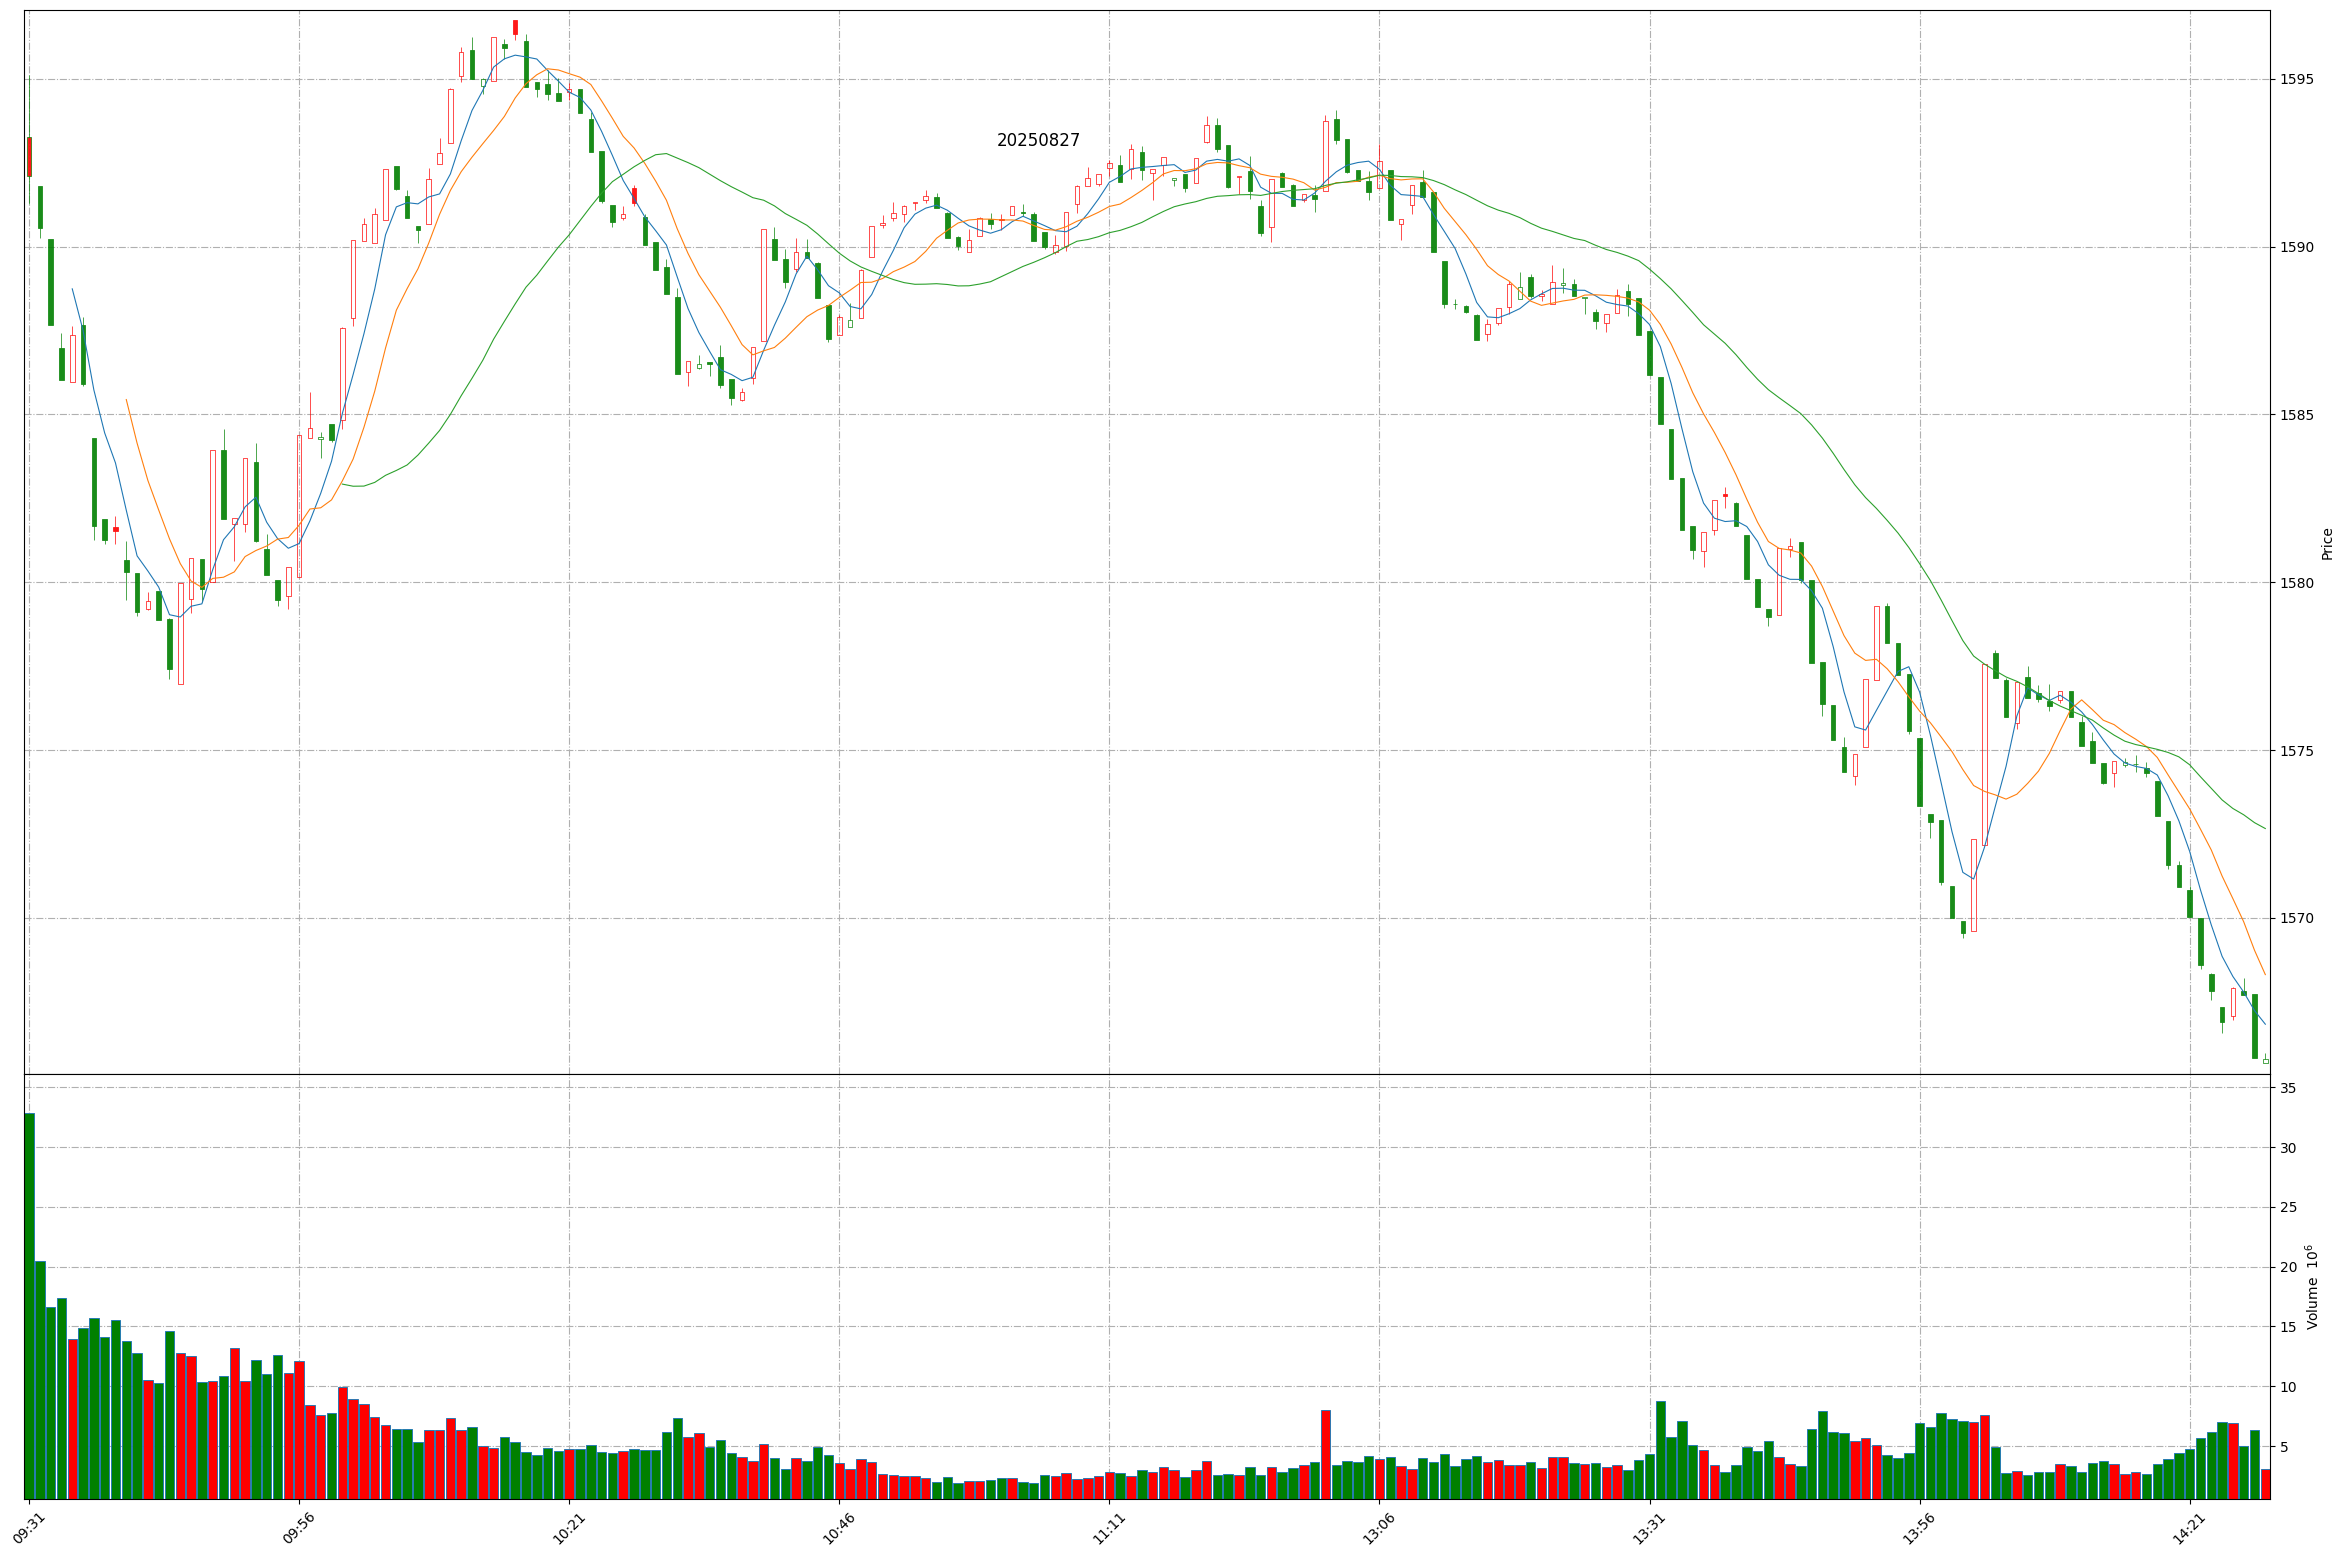
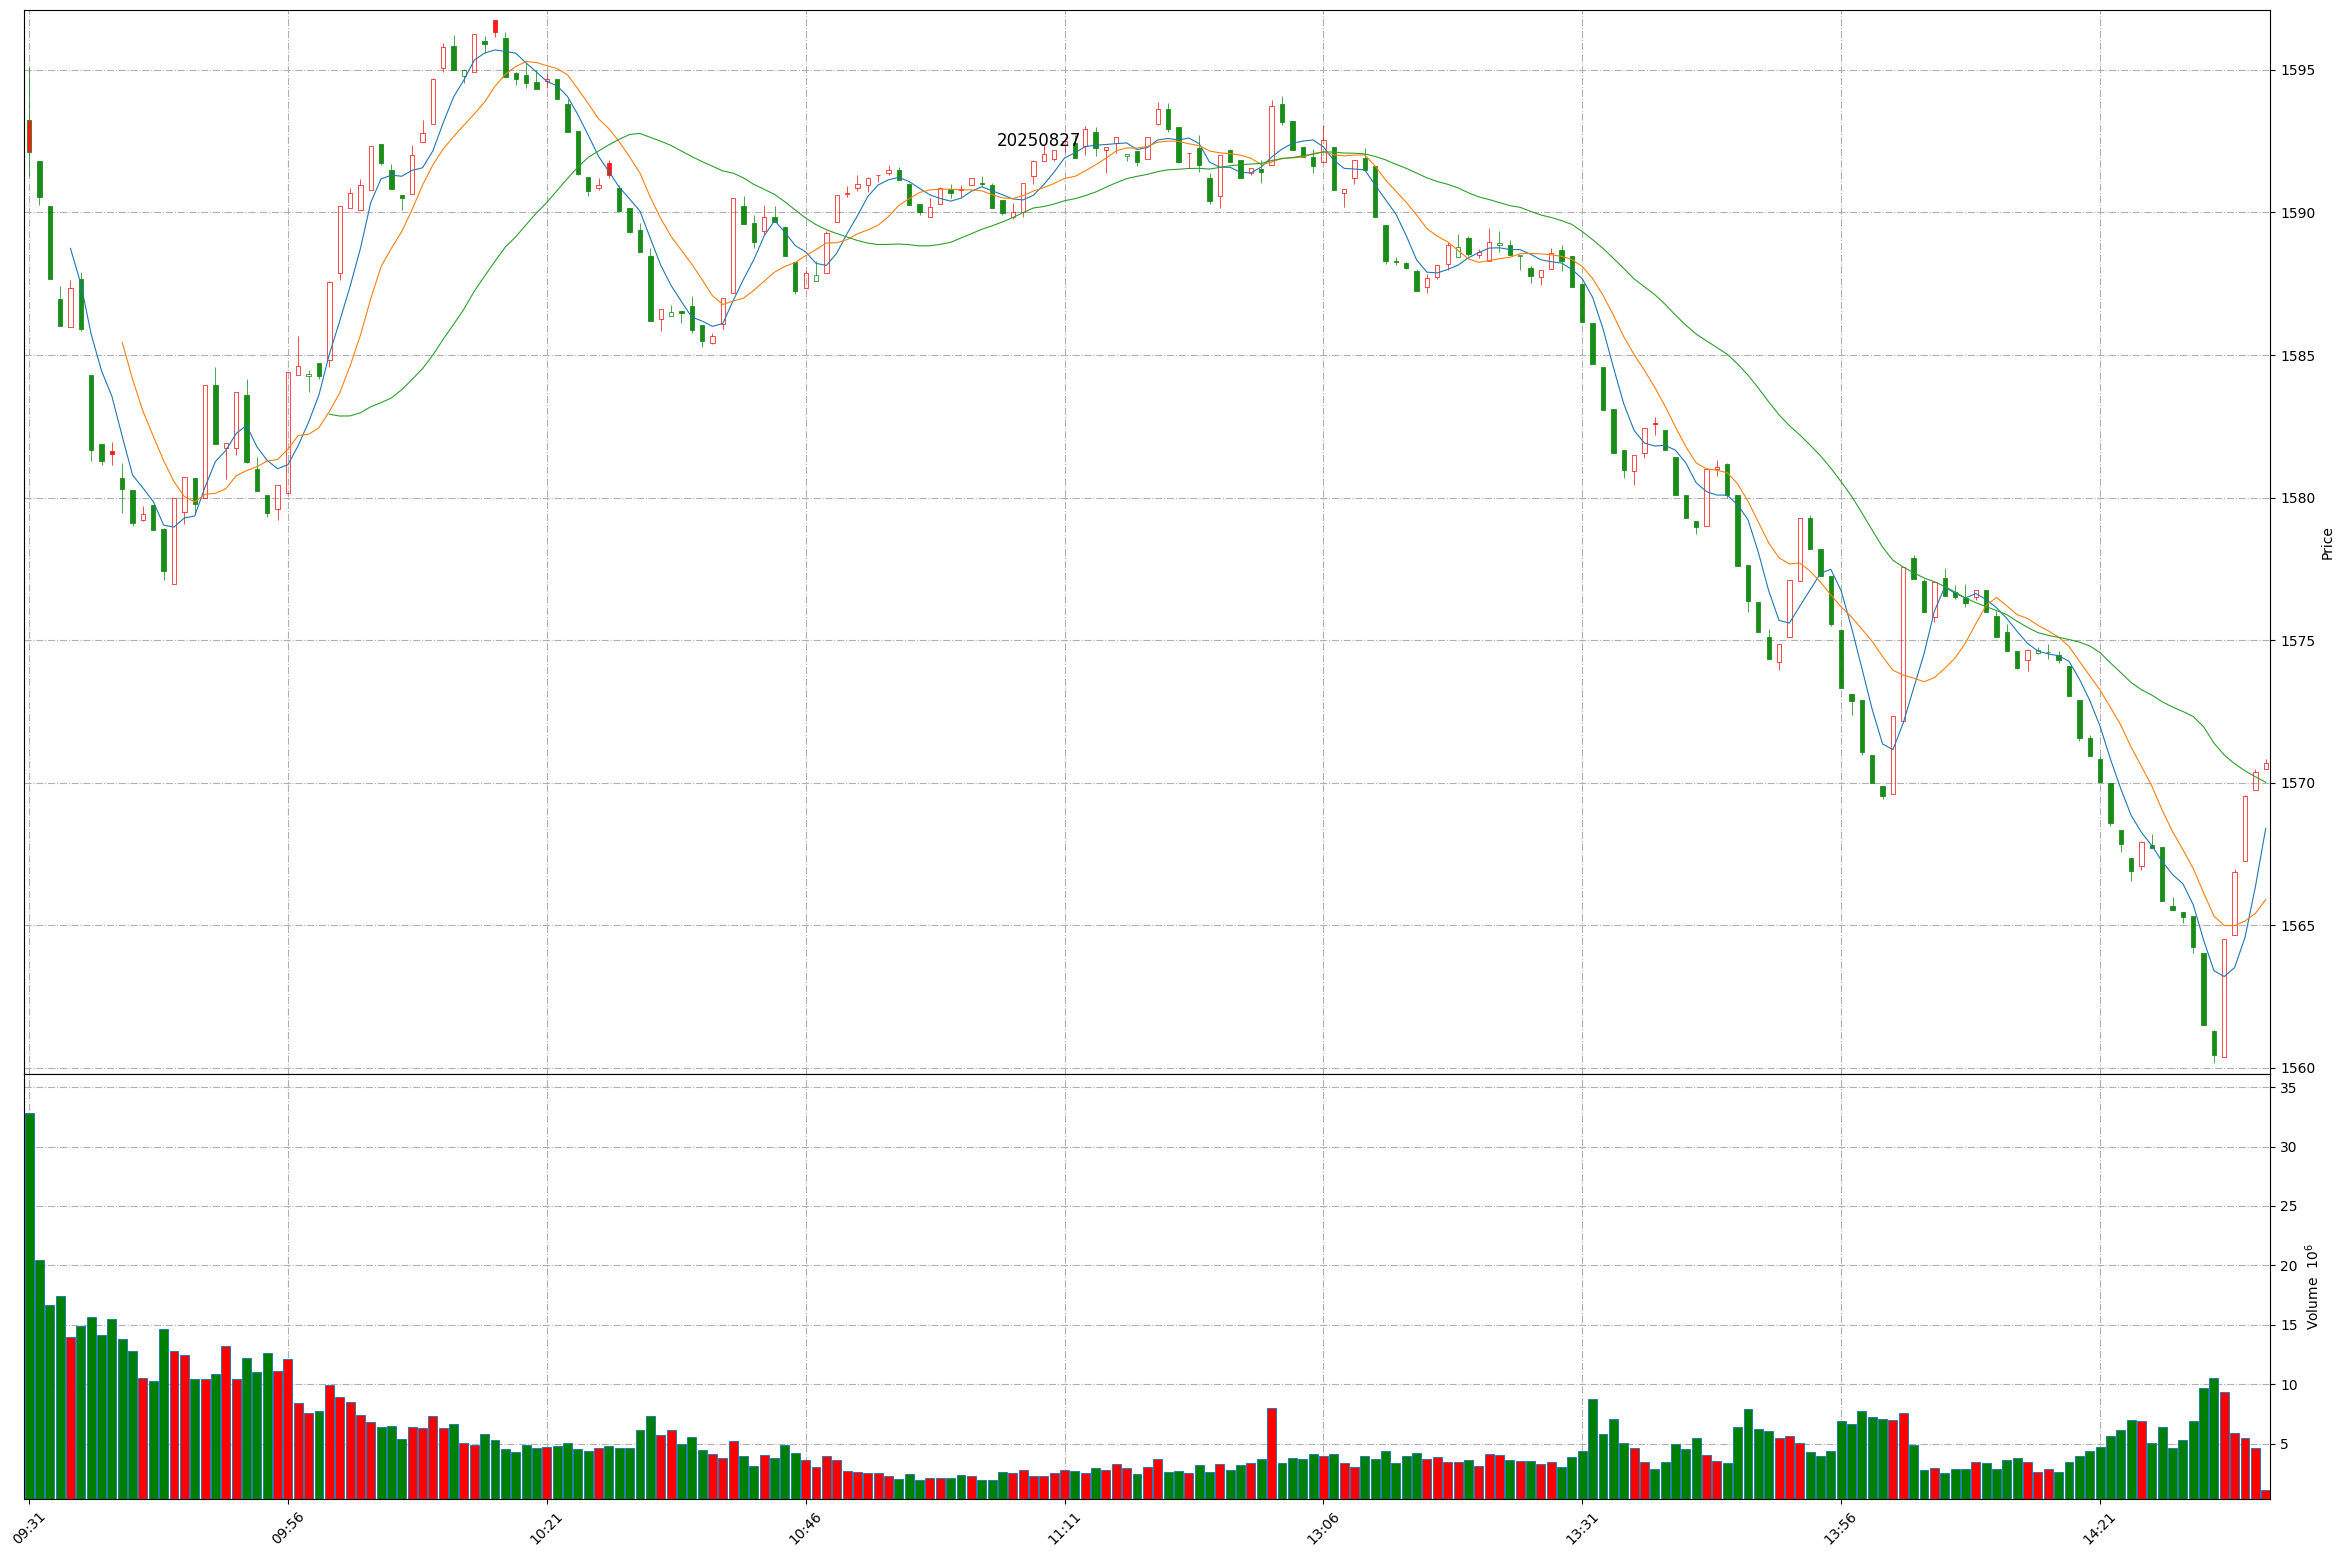
Github action update at 2025-08-27 14:39:58.

diff --git a/README.md b/README.md
@@ -1,11 +1,11 @@
 
 # Daily-A-share-market-quotes 每日 A 股指数（5min 更新）- 20250827
 
-### 上证指数 20250827 14:28
+### 上证指数 20250827 14:39
 ![](./fig/2025/8/20250827-sh000001.png)
 
-### 深证成指 20250827 14:28
+### 深证成指 20250827 14:39
 ![](./fig/2025/8/20250827-sz399001.png)
 
-### 北证50 20250827 14:28
+### 北证50 20250827 14:39
 ![](./fig/2025/8/20250827-bj899050.png)
